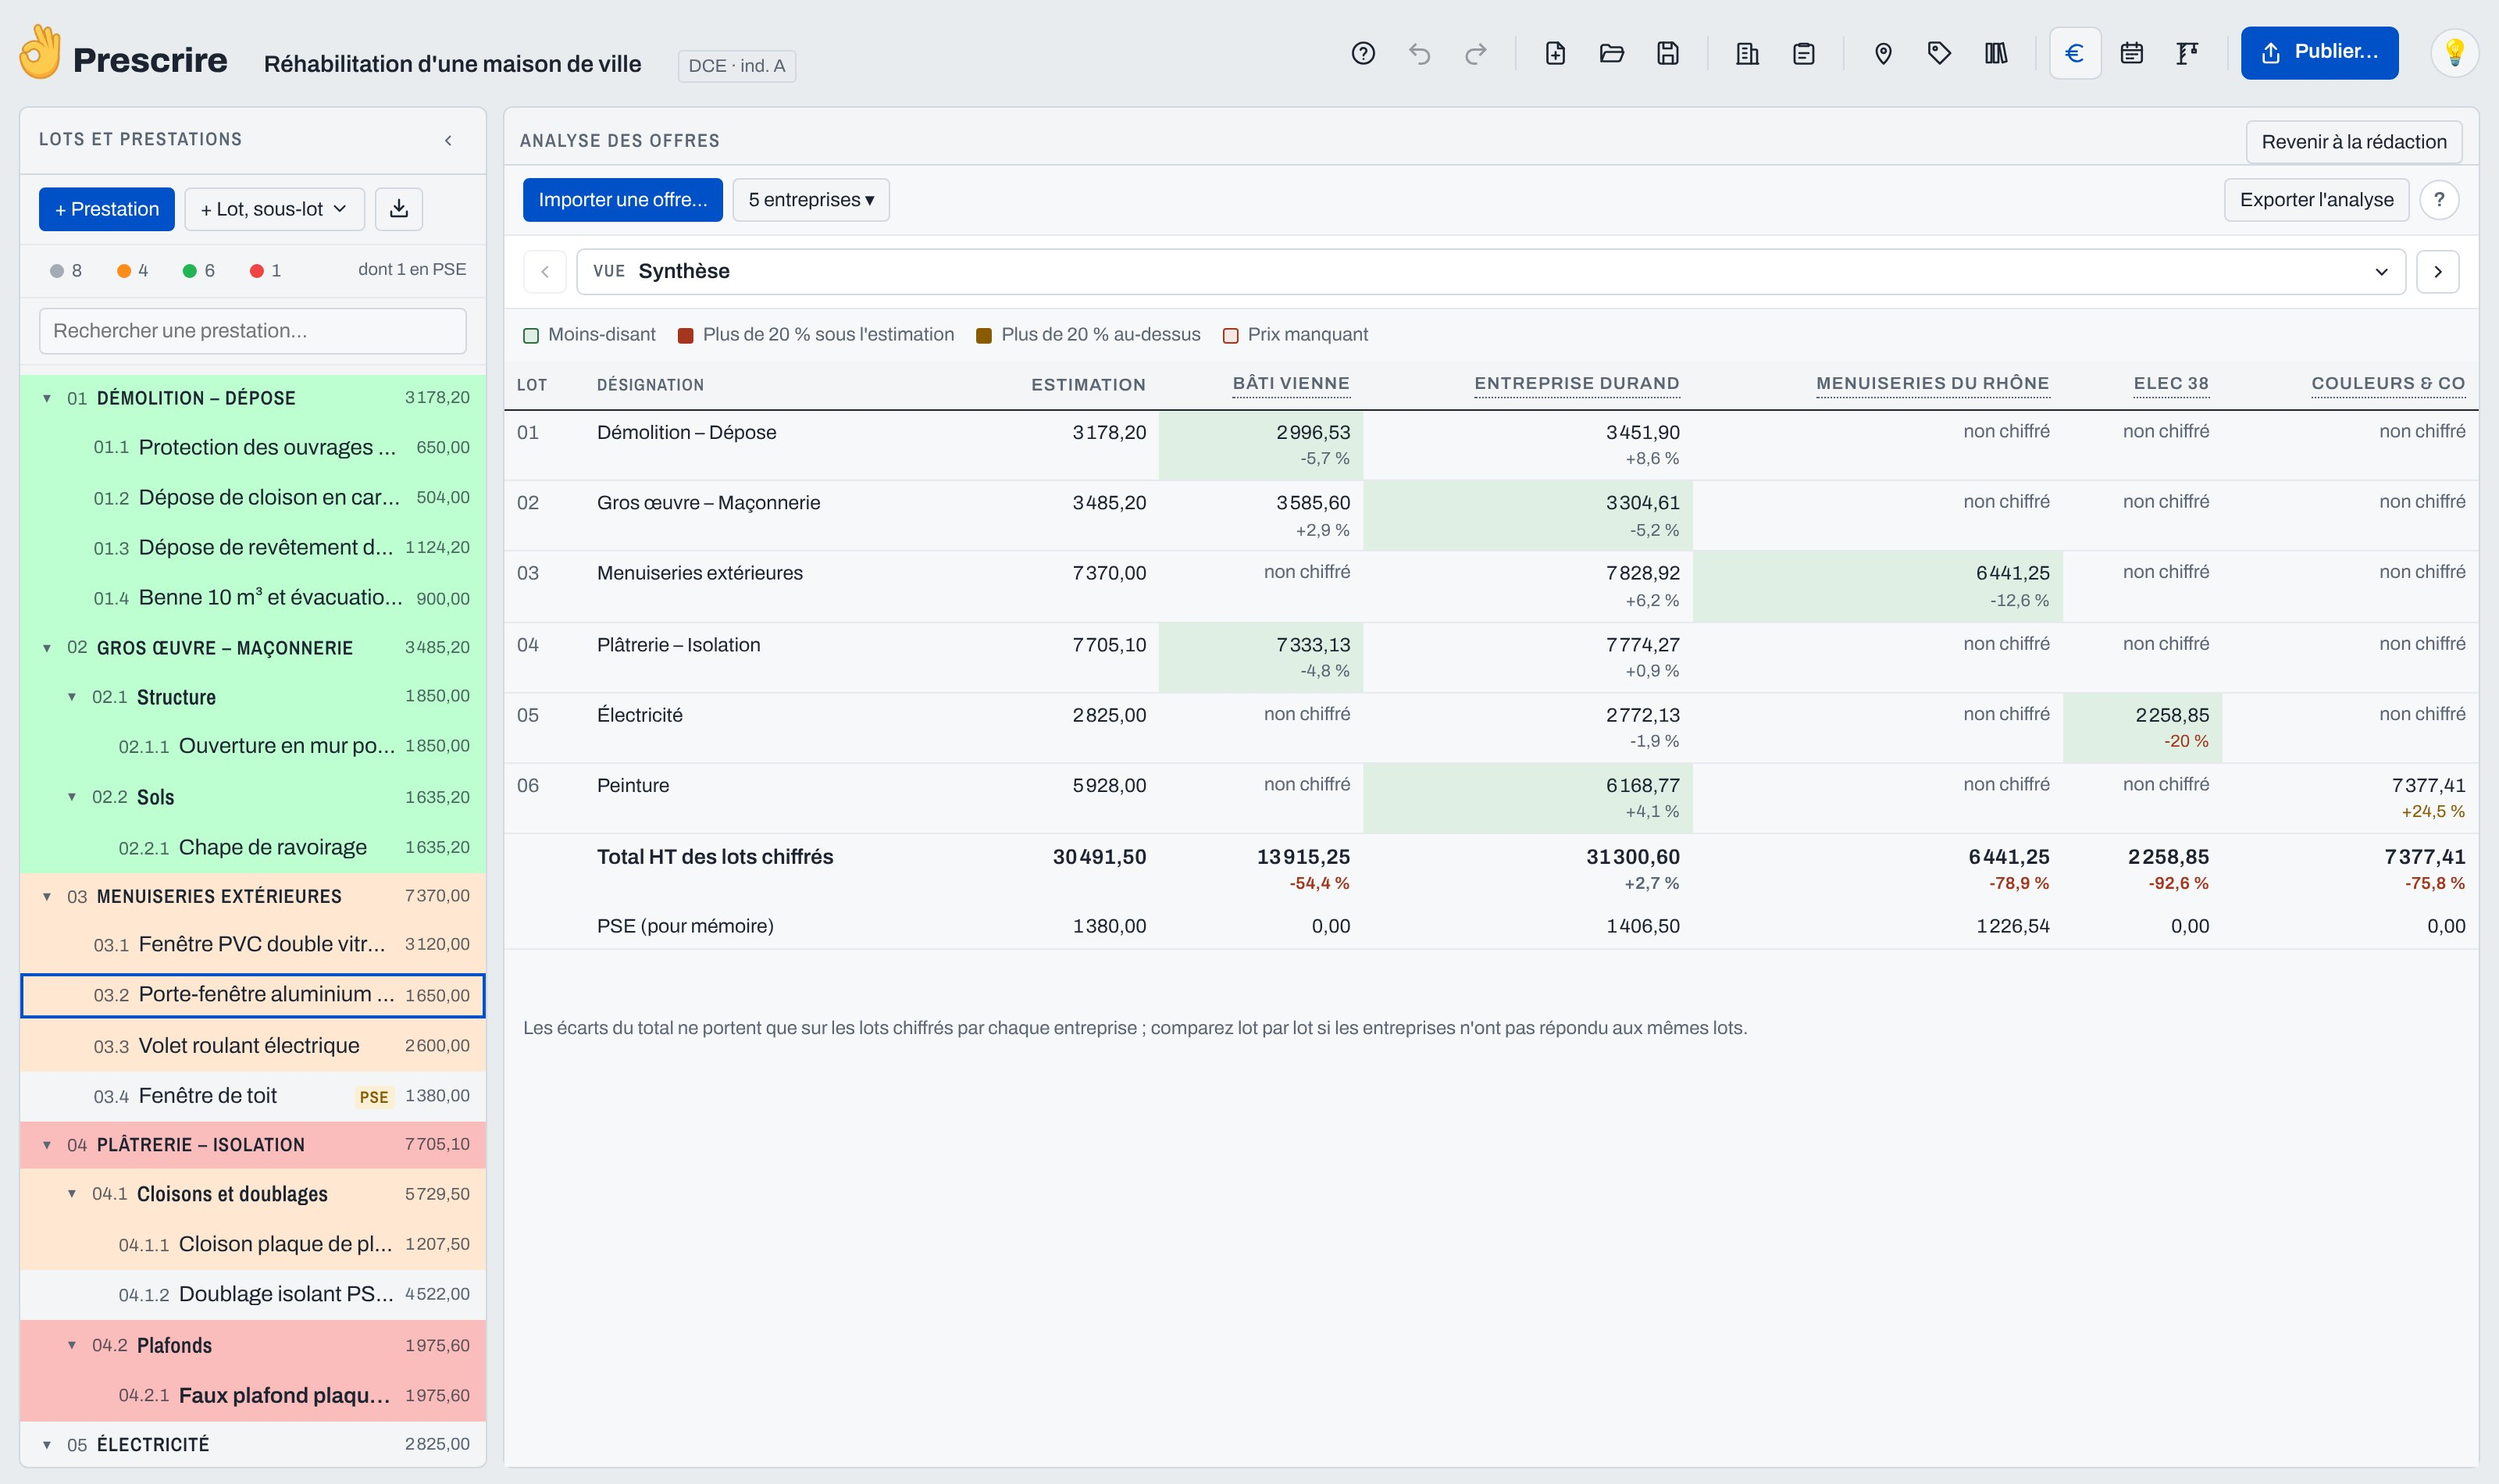
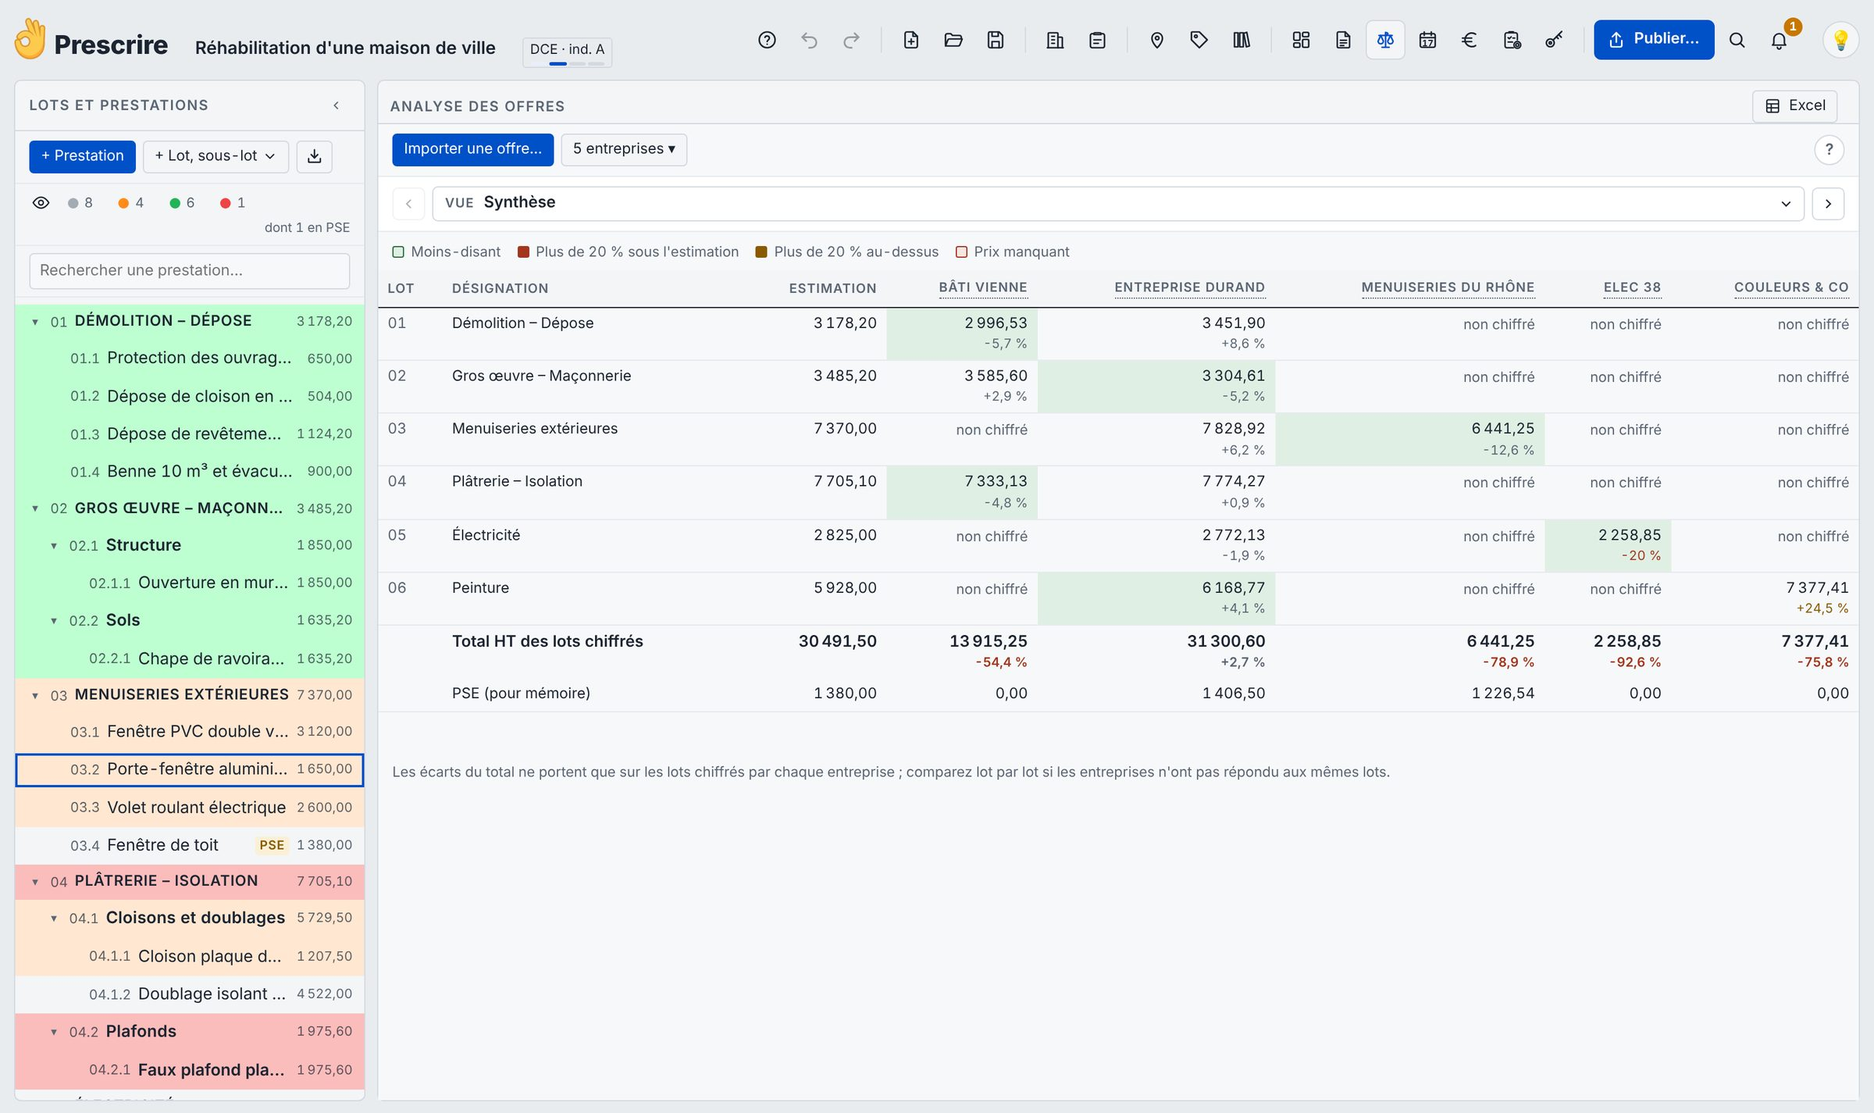
Site : captures régénérées depuis la version 0.18.2
- 6 captures fraîches générées depuis le fichier 0.18.2 (navigateur headless) :
  tableau de bord, rédaction CCTP, DPGF, analyse des offres, mode sombre, aide
- Suppression des anciennes captures (version 0.15, et modules Pro)
- Galerie mise à jour en conséquence

Claude-Session: https://claude.ai/code/session_01TVMFLAbRP3Nzzpx7bDmehw

diff --git a/docs/index.html b/docs/index.html
@@ -9657,27 +9657,25 @@ if(T)initApp();
           <p class="lead">Rédaction du CCTP et de la DPGF, analyse des offres, planning et suivi financier du chantier dans une seule interface.</p>
         </div>
         <div class="galerie">
-          <figure class="shot" onclick="ouvrirShot('captures/interface.jpg','Rédaction du CCTP : l\'arbre des lots, la fiche de prestation et l\'aperçu du CCTP mis à jour en direct.')">
-            <img src="captures/interface.jpg" alt="Rédaction du CCTP dans Prescrire" loading="lazy">
+          <figure class="shot" onclick="ouvrirShot('captures/tableau-de-bord.jpg','Tableau de bord : estimation, avancement de la rédaction, répartition par lot et meilleures offres, d\'un coup d\'œil.')">
+            <img src="captures/tableau-de-bord.jpg" alt="Tableau de bord de Prescrire" loading="lazy">
+            <figcaption>Tableau de bord : estimation, avancement et répartition.</figcaption>
+          </figure>
+          <figure class="shot" onclick="ouvrirShot('captures/cctp.jpg','Rédaction du CCTP : l\'arbre des lots, la fiche de prestation et l\'aperçu du CCTP mis à jour en direct.')">
+            <img src="captures/cctp.jpg" alt="Rédaction du CCTP dans Prescrire" loading="lazy">
             <figcaption>Rédaction du CCTP : les trois colonnes, aperçu en direct.</figcaption>
           </figure>
-          <figure class="shot" onclick="ouvrirShot('captures/interface-sombre.jpg','Mode sombre et récapitulatif de la DPGF : total HT, TVA par taux, TTC, base et PSE.')">
-            <img src="captures/interface-sombre.jpg" alt="Récapitulatif DPGF en mode sombre" loading="lazy">
-            <figcaption>Récapitulatif DPGF et mode sombre.</figcaption>
+          <figure class="shot" onclick="ouvrirShot('captures/dpgf.jpg','DPGF : récapitulatif par lot, sous-totaux de TVA par taux, total HT et TTC, base et PSE.')">
+            <img src="captures/dpgf.jpg" alt="DPGF récapitulative" loading="lazy">
+            <figcaption>DPGF : récapitulatif, TVA par taux, HT et TTC.</figcaption>
           </figure>
           <figure class="shot" onclick="ouvrirShot('captures/offres.jpg','Analyse des offres : comparatif des entreprises, écarts à l\'estimation, moins-disant et prix manquants, lot par lot.')">
             <img src="captures/offres.jpg" alt="Analyse comparative des offres" loading="lazy">
-            <figcaption>Analyse des offres, écarts et moins-disant.</figcaption>
+            <figcaption>Analyse des offres : écarts et moins-disant par lot.</figcaption>
           </figure>
-          <figure class="shot" onclick="ouvrirShot('captures/planning.jpg','Planning des travaux en diagramme de Gantt, calé sur les jours ouvrés, avec export Excel et PDF A3.')">
-            <span class="shot-pro">Pro</span>
-            <img src="captures/planning.jpg" alt="Planning des travaux (Gantt)" loading="lazy">
-            <figcaption>Planning : enchaînement des lots, export Excel et PDF A3.</figcaption>
-          </figure>
-          <figure class="shot" onclick="ouvrirShot('captures/chantier-lot.jpg','Suivi financier du chantier : marché, travaux supplémentaires, avenant et avancement par situation.')">
-            <span class="shot-pro">Pro</span>
-            <img src="captures/chantier-lot.jpg" alt="Suivi financier du chantier" loading="lazy">
-            <figcaption>Suivi de chantier : travaux supplémentaires et situations.</figcaption>
+          <figure class="shot" onclick="ouvrirShot('captures/sombre.jpg','Mode sombre : la même interface, reposante pour les longues séances de rédaction.')">
+            <img src="captures/sombre.jpg" alt="Prescrire en mode sombre" loading="lazy">
+            <figcaption>Mode sombre, au choix.</figcaption>
           </figure>
           <figure class="shot" onclick="ouvrirShot('captures/aide.jpg','Aide intégrée et visite guidée pour prendre l\'outil en main rapidement.')">
             <img src="captures/aide.jpg" alt="Aide intégrée de Prescrire" loading="lazy">
